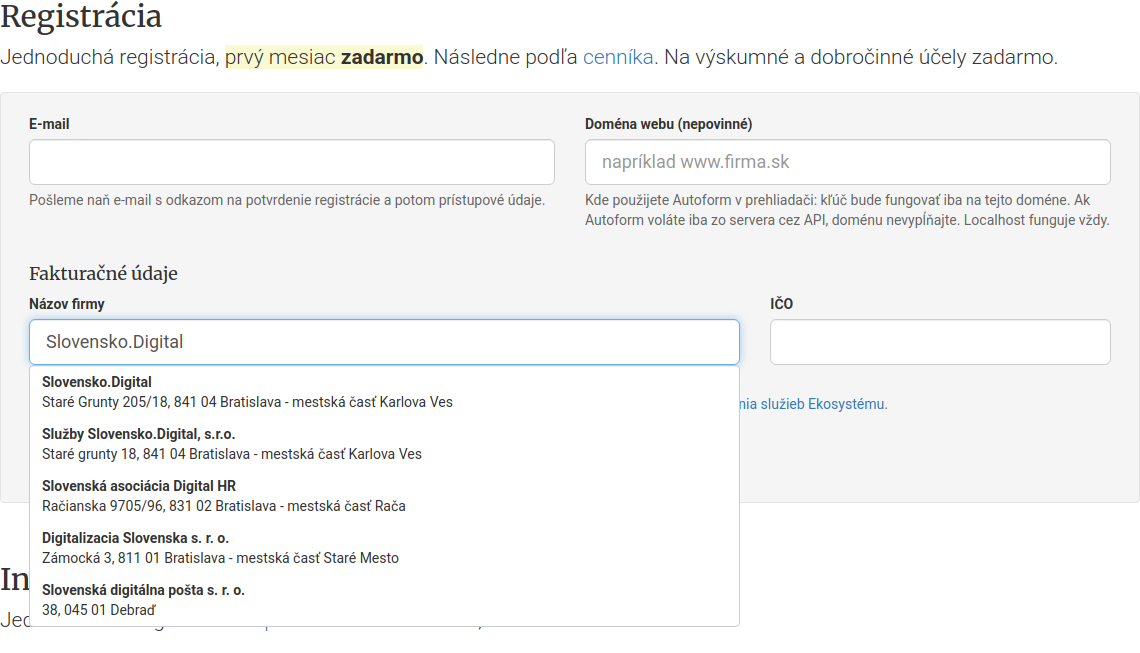
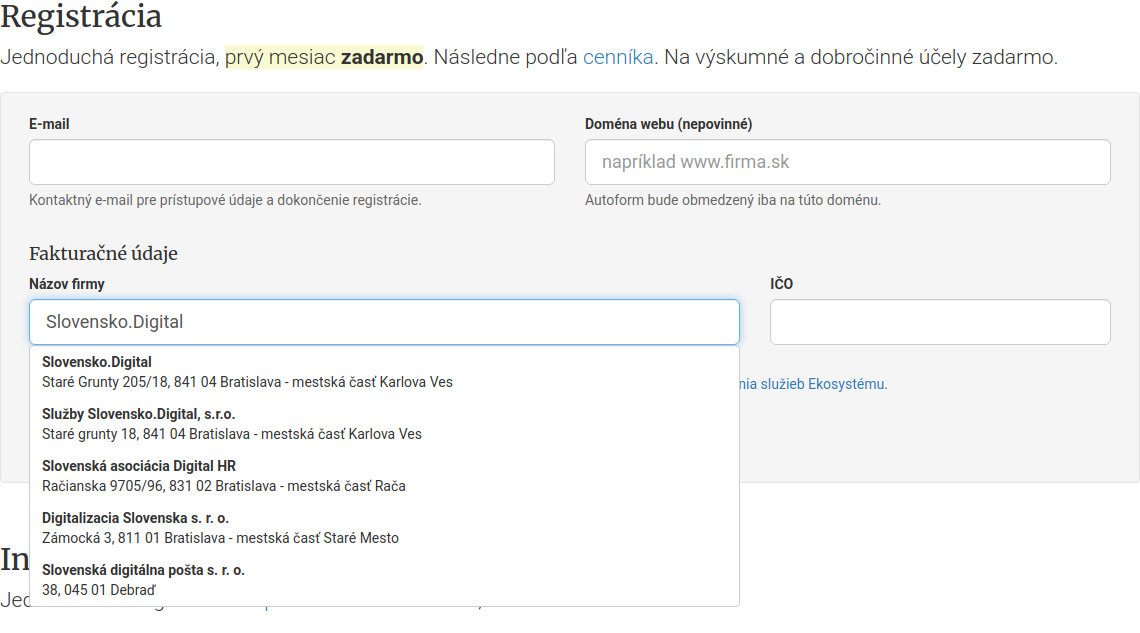
Snímky k PR cap-registracia so skrátenými textami
Claude-Session: https://claude.ai/code/session_01BSwMDRcxWynMqEFspgUAiT

diff --git a/README.md b/README.md
@@ -1,3 +1,3 @@
 # Snímky k PR cap-registracia
 
-Obrázky pre popis pull requestu „Registrácia Autoformu a Datahubu cez CAP“ (vetva cap-registracia po úpravách podľa review, spustená lokálne s Autoformom stagingu a pruhom stagingu, 4. 11. 2026). Po merge PR sa vetva môže zmazať.
+Obrázky pre popis pull requestu „Registrácia Autoformu a Datahubu cez CAP“ (vetva cap-registracia po úpravách podľa review, spustená lokálne s Autoformom stagingu a pruhom stagingu, 9. 11. 2026). Po merge PR sa vetva môže zmazať.
